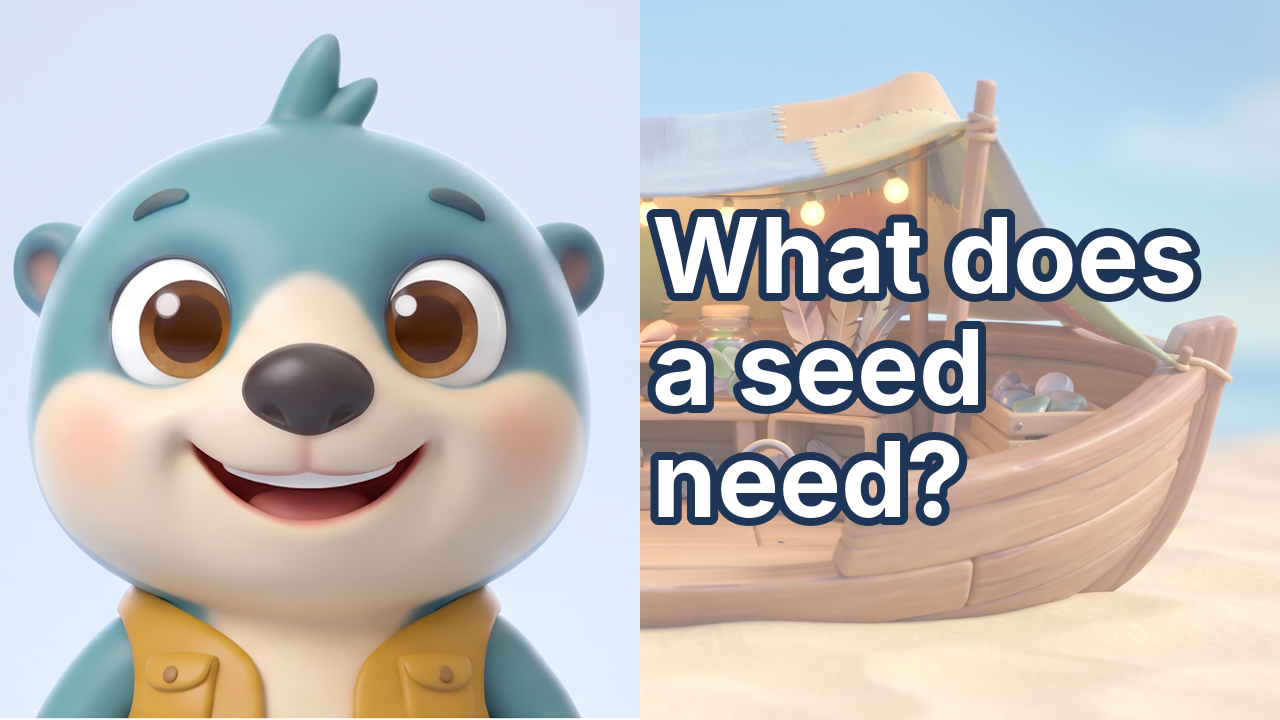
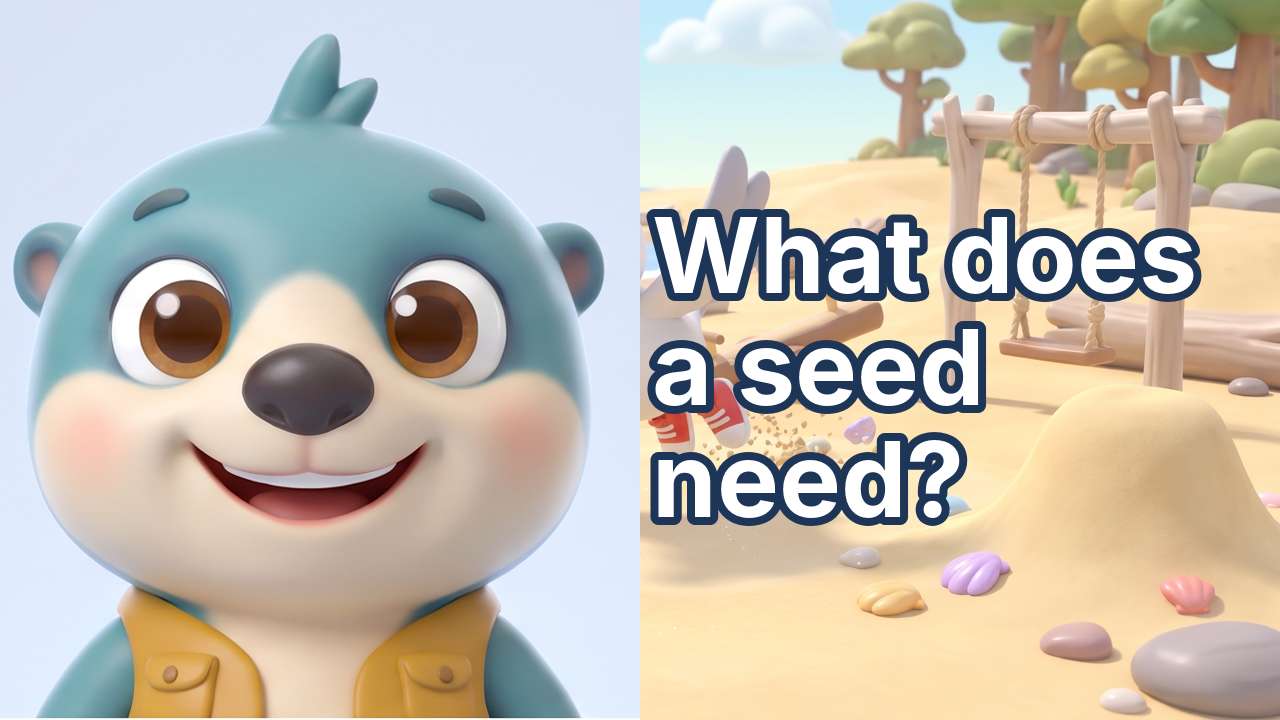
E05: final episode QA pass, shorts, thumbnail, package
Claude-Session: https://claude.ai/code/session_018opNwaDsoAjmGHWn5ETCat

diff --git a/channel/make_thumbs_v2.py b/channel/make_thumbs_v2.py
@@ -13,6 +13,7 @@ SPEC = {
     "E01": ("E01_A", [("WHERE DID THE", WHITE), ("WATER GO?", YEL)], 40, 64, 96),
     "E02": ("E02_B", [("WHY HOLD", WHITE), ("HANDS?", YEL)], 40, 56, 112),
     "E05": ("E05_A", [("WHAT DOES", WHITE), ("A SEED", YEL), ("NEED?", WHITE)], 40, 200, 80),
+    "E04": ("E04_B", [("WHY DO", WHITE), ("BOATS", YEL), ("FLOAT?", WHITE)], 40, 110, 104),
     "E03": ("E03_A", [("WHERE DO", WHITE), ("RAINBOWS", YEL), ("COME FROM?", WHITE)], 44, 330, 92),
 }
 def draw_text(base, lines, x, y, size):

diff --git a/pipeline/clipdl.py b/pipeline/clipdl.py
@@ -5,7 +5,7 @@ ROOT = Path(__file__).resolve().parent.parent
 ep = sys.argv[1]
 p = ROOT / "episodes" / ep / "video_ledger.json"; d = json.loads(p.read_text())
 B = "https://d8j0ntlcm91z4.cloudfront.net/user_3GF0wsWv24c9iFrHaP1guTwfxH4/hf_%s_%s_%s.mp4"
-date = "20261026"
+date = __import__("os").environ.get("DATE","20261027")
 (ROOT / "episodes" / ep / "ai").mkdir(exist_ok=True)
 for a in sys.argv[2:]:
     shot, t = a.split("="); k = f"{ep}-{shot}"

diff --git a/episodes/E05/youtube.md b/episodes/E05/youtube.md
@@ -7,8 +7,6 @@
 **End screens/links/QR/merch:** none.
 
 ## Description
-> NOTE: chapter times are estimates from the storyboard; regenerate after the final render.
-
 TRY IT AT HOME: Ask a grown-up to help. Wet a paper towel and fold it. Slip the towel and a bean seed into a clear bag. Tape the bag to a sunny window. Check it every day. Add a few drops of water if the towel dries out. In about a week, a white root and a green shoot appear.
 
 In this episode of Otterly Curious, Ollie the sea otter and his friends ask: What does a seed need? A seed wakes up and starts to grow when it gets water and warmth. Then the little plant reaches for light, and it needs time to grow big. Along the way, Gus learns about responsibility.
@@ -16,12 +14,12 @@ In this episode of Otterly Curious, Ollie the sea otter and his friends ask: Wha
 A science-for-kids story for ages 3-7, made to be watched together.
 
 0:00 Big question
-0:33 Theme song
-1:03 Let's guess
-2:04 Uh-oh!
-3:10 Let's find out
-4:39 Try it out
-5:51 Wonder Pocket
+0:34 Theme song
+1:04 Let's guess
+2:11 Uh-oh!
+3:22 Let's find out
+5:26 Try it out
+6:43 Wonder Pocket
 
 Subscribe to Otterly Curious for a new question every week.
 

diff --git a/episodes/E05/qa_report.md b/episodes/E05/qa_report.md
@@ -1,0 +1,10 @@
+# QA report E05: PASS
+
+- PASS | runtime 6:00-8:00 | 7.67 min
+- PASS | every line audible | 59 lines, problems: []
+- PASS | no shot >8s without motion | missing clips: []; shots >8s (all have motion): ['E05-S002', 'E05-S019', 'E05-S020', 'E05-S027', 'E05-S031', 'E05-S034', 'E05-S034c', 'E05-S036', 'E05-S038b', 'E05-S040c', 'E05-S043', 'E05-S044', 'E05-S063', 'E05-S064']
+- PASS | captions in sync | 59 cues vs 59 lines
+- PASS | no character drift flags open | 0 flags
+- PASS | style/brightness on sampled frames | dark frames: []
+- PASS | Short (demo) 45-60 s | 57.6s
+- PASS | Short (fail) 20-30 s | 24.6s
